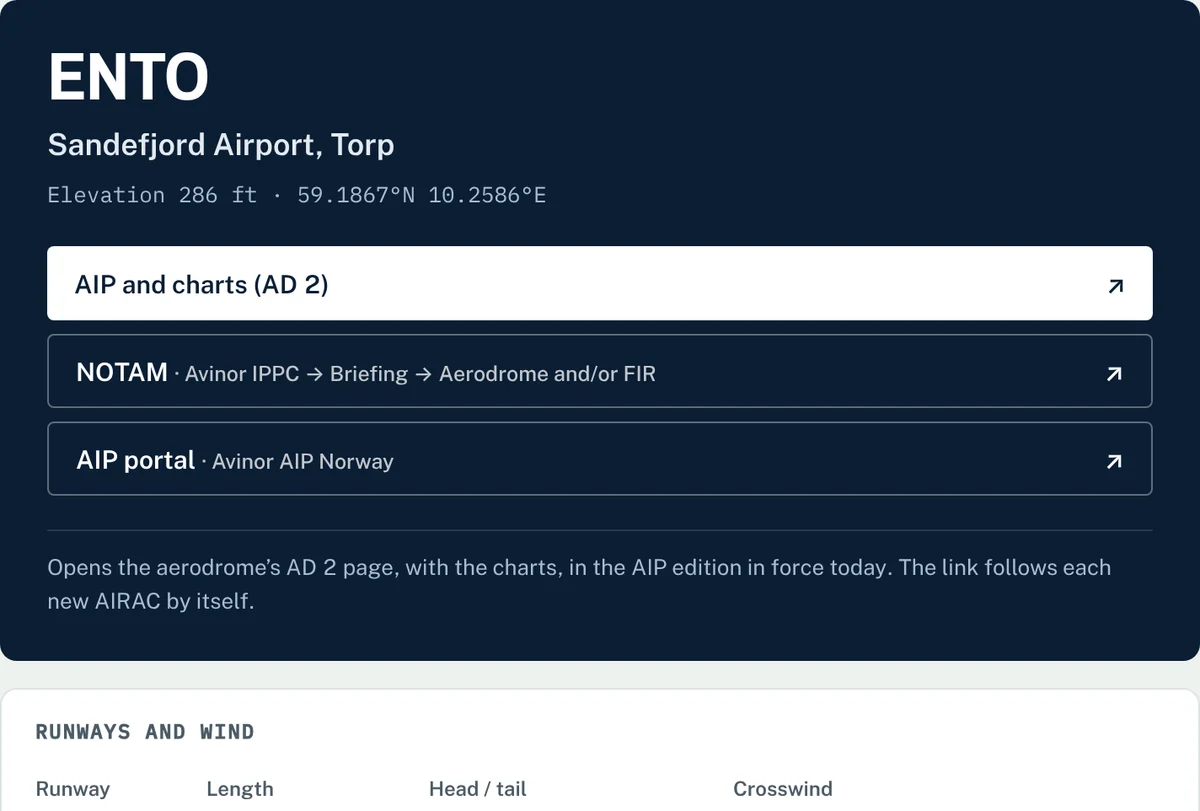
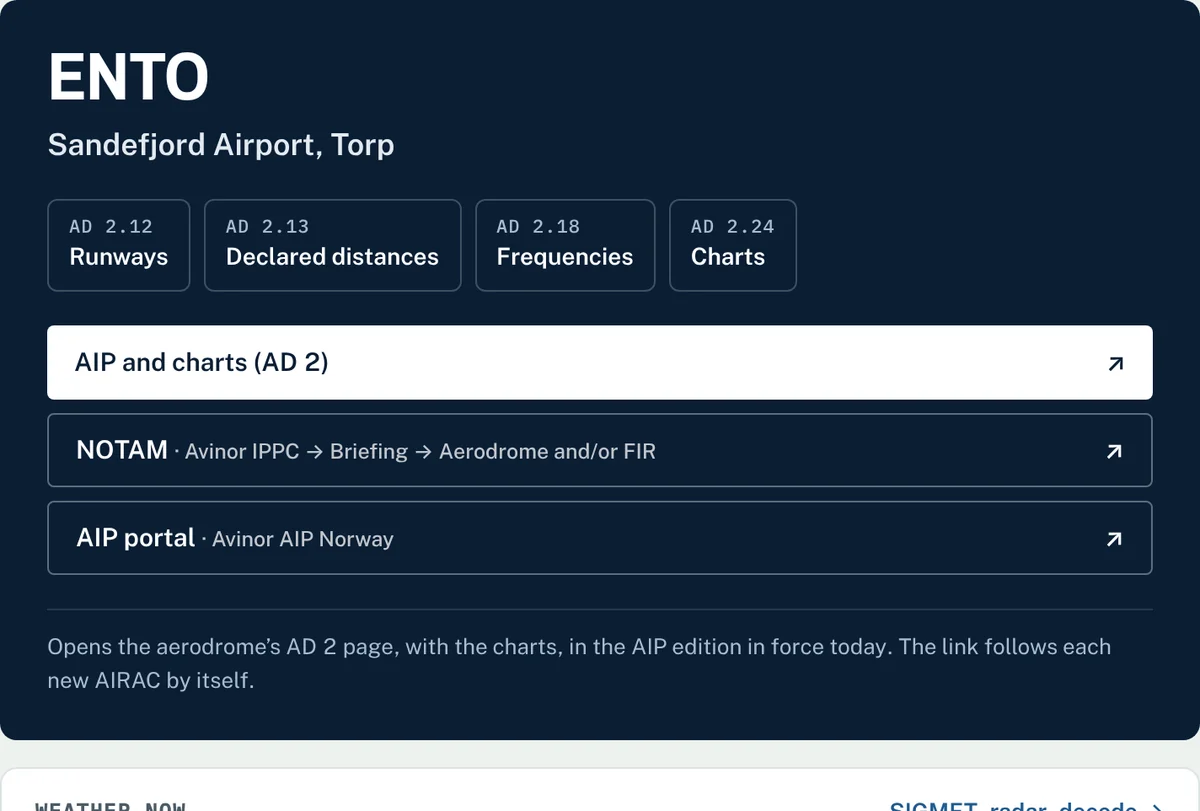
Aerodrome and AIP: straight to the official AIP; no OurAirports runways, frequencies or elevation; Enter opens the AIP; AD 2 section shortcuts
Claude-Session: https://claude.ai/code/session_01S9gHm2brXeiNkAgNyZ96uL

diff --git a/aerodrome.html b/aerodrome.html
@@ -4,12 +4,12 @@
 <meta charset="utf-8">
 <meta name="viewport" content="width=device-width, initial-scale=1, viewport-fit=cover">
 <title>Aerodrome and AIP · NORDAP</title>
-<meta name="description" content="Type an ICAO code and go straight to the aerodrome's AIP and charts (AD 2) in the edition in force today, with NOTAM, runways and wind, frequencies, the current weather and daylight.">
+<meta name="description" content="Type an ICAO code and go straight to the aerodrome's official AIP and charts (AD 2) in the edition in force today, with NOTAM, the current weather and daylight.">
 <link rel="canonical" href="https://nordap.eu/aerodrome">
 <meta property="og:type" content="website">
 <meta property="og:site_name" content="NORDAP">
 <meta property="og:title" content="Aerodrome and AIP · NORDAP">
-<meta property="og:description" content="Type an ICAO code and go straight to the aerodrome's AIP and charts (AD 2) in the edition in force today, with NOTAM, runways and wind, frequencies, the current weather and daylight.">
+<meta property="og:description" content="Type an ICAO code and go straight to the aerodrome's official AIP and charts (AD 2) in the edition in force today, with NOTAM, the current weather and daylight.">
 <meta property="og:url" content="https://nordap.eu/aerodrome">
 <meta property="og:image" content="https://nordap.eu/img/og-nordap.jpg">
 <meta property="og:image:width" content="1200">
@@ -28,7 +28,7 @@
 .ad-rec button:hover,.ad-rec button.on{border-color:var(--accent);color:var(--accent)}
 .ad-st{color:var(--ink-2);font-size:14px}
 
-.ad-hero{display:grid;grid-template-columns:minmax(0,1fr) auto;gap:20px 40px;align-items:end;margin-top:22px;padding:26px 28px;border-radius:10px;background:#0B1E34;color:#fff}
+.ad-hero{display:grid;grid-template-columns:minmax(0,1fr) auto;gap:20px 40px;align-items:center;margin-top:22px;padding:26px 28px;border-radius:10px;background:#0B1E34;color:#fff}
 .ad-hero .id{font:700 clamp(40px,5vw,58px)/1 var(--f-display);font-stretch:84%;letter-spacing:-.01em}
 .ad-hero .nm{margin-top:6px;font-size:18px;font-weight:600;color:#E3EAF1}
 .ad-hero .mt{margin-top:6px;font-family:var(--f-mono);font-size:13px;color:#A9BCCE}
@@ -37,6 +37,10 @@
 .ad-go .pri{background:#fff;color:#0B1E34}.ad-go .pri:hover{background:#E6EEF5}
 .ad-go .sec{border:1px solid rgba(255,255,255,.35);color:#fff}.ad-go .sec:hover{background:rgba(255,255,255,.08)}
 .ad-go small{font-weight:500;font-size:12.5px;opacity:.75}
+.ad-sec{display:flex;flex-wrap:wrap;gap:8px;margin-top:18px}
+.ad-sec a{display:flex;flex-direction:column;gap:1px;padding:8px 12px;border:1px solid rgba(255,255,255,.22);border-radius:6px;color:#fff;text-decoration:none;font-size:14px;font-weight:600}
+.ad-sec a:hover{background:rgba(255,255,255,.08);border-color:rgba(255,255,255,.45)}
+.ad-sec small{font:500 11px/1.3 var(--f-mono);letter-spacing:.05em;color:#A9BCCE}
 .ad-hn{grid-column:1/-1;margin:0;font-size:13px;line-height:1.5;color:#A9BCCE;border-top:1px solid rgba(255,255,255,.12);padding-top:12px}
 
 .ad-grid{display:grid;grid-template-columns:repeat(2,minmax(0,1fr));gap:16px;margin-top:16px}
@@ -44,14 +48,6 @@
 .ad-box h2{margin:0 0 12px;font-family:var(--f-mono);font-size:12px;font-weight:600;letter-spacing:.08em;text-transform:uppercase;color:var(--ink-2)}
 .ad-box h2 a{float:right;font-family:var(--f-body,system-ui);text-transform:none;letter-spacing:0;font-size:13.5px;font-weight:600;color:var(--accent);text-decoration:none}
 .ad-box h2 a:hover{text-decoration:underline}
-.ad-t{width:100%;border-collapse:collapse;font-variant-numeric:tabular-nums}
-.ad-t th,.ad-t td{padding:7px 10px 7px 0;border-bottom:1px solid var(--rule-2);text-align:left;font-size:14.5px;vertical-align:baseline}
-.ad-t th{font-size:12px;font-weight:600;color:var(--ink-2);border-bottom:1px solid var(--ink)}
-.ad-t tr:last-child td{border-bottom:0}
-.ad-t .m{font-family:var(--f-mono)}
-.ad-t .best td{background:#F2F7FB}
-.ad-t .best td:first-child b::after{content:'';display:inline-block;width:7px;height:7px;margin-left:7px;border-radius:50%;background:#1e8e3e;vertical-align:2px}
-.ad-x.hi{color:#b35c00;font-weight:600}.ad-tw{color:#d93025;font-weight:600}
 .ad-w{margin:10px 0 0;font-size:13px;color:var(--ink-2);line-height:1.5}
 .ad-raw{display:block;font-family:var(--f-mono);font-size:13px;line-height:1.5;white-space:pre-wrap;word-break:break-word;margin:6px 0 0;color:var(--ink)}
 .ad-raw+.ad-raw{margin-top:10px;padding-top:10px;border-top:1px solid var(--rule-2)}
@@ -76,7 +72,7 @@
     <div class="brand">
       <div class="eyebrow">NORDAP · Preflight</div>
       <h1>Aerodrome and AIP</h1>
-      <p>Type an ICAO code and go straight to the aerodrome's AIP and charts, in the edition in force today. Next to it: NOTAM, the runways with today's wind, frequencies, the weather now and daylight.</p>
+      <p>Type an ICAO code and go straight to the aerodrome's official AIP and charts, in the edition in force today. Press Enter and the AIP opens. Next to it: NOTAM, the weather now and daylight.</p>
     </div>
   </header>
 
@@ -87,55 +83,31 @@
       <span class="ad-st" id="st"></span>
     </div>
     <div id="out"></div>
-    <p class="ad-note">A preparation aid, not a source. The AIP, NOTAM and the official weather briefing are the authority. Runway headings are worked out from the runway numbers and the wind from the METAR, corrected for magnetic variation.</p>
+    <p class="ad-note">Runways, declared distances, frequencies and charts are taken from the AIP itself, never copied into NORDAP. The AIP, NOTAM and the official weather briefing are the authority.</p>
   </section>
 </div>
 <script src="lab.js?v=62"></script>
 <script src="aip.js?v=7"></script>
 <script src="icaobrief.js?v=9"></script>
 <script src="sun.js?v=1"></script>
-<script src="wmm.js?v=2"></script>
 <script>
 (function(){
 'use strict';
 const {L,el}=LAB;
 LAB.add({},{
  'NORDAP · Preflight':'NORDAP · Preflight','Aerodrome and AIP':'Flyplass og AIP','ICAO code':'ICAO-kode',
- "Type an ICAO code and go straight to the aerodrome's AIP and charts, in the edition in force today. Next to it: NOTAM, the runways with today's wind, frequencies, the weather now and daylight.":'Skriv en ICAO-kode og gå rett til flyplassens AIP og kart, i utgaven som gjelder i dag. Ved siden av: NOTAM, rullebanene med dagens vind, frekvenser, været nå og dagslys.',
- 'A preparation aid, not a source. The AIP, NOTAM and the official weather briefing are the authority. Runway headings are worked out from the runway numbers and the wind from the METAR, corrected for magnetic variation.':'Et hjelpemiddel for forberedelse, ikke en kilde. AIP, NOTAM og den offisielle værbriefingen er fasit. Banekursene regnes ut fra banenumrene og vinden fra METAR, korrigert for misvisning.'
+ "Type an ICAO code and go straight to the aerodrome's official AIP and charts, in the edition in force today. Press Enter and the AIP opens. Next to it: NOTAM, the weather now and daylight.":'Skriv en ICAO-kode og gå rett til flyplassens offisielle AIP og kart, i utgaven som gjelder i dag. Trykk Enter, så åpnes AIP. Ved siden av: NOTAM, været nå og dagslys.',
+ 'Runways, declared distances, frequencies and charts are taken from the AIP itself, never copied into NORDAP. The AIP, NOTAM and the official weather briefing are the authority.':'Baner, deklarerte distanser, frekvenser og kart hentes fra AIP selv, aldri kopiert inn i NORDAP. AIP, NOTAM og den offisielle værbriefingen er fasit.'
 });
 const esc=s=>String(s==null?'':s).replace(/[&<>"]/g,c=>({'&':'&amp;','<':'&lt;','>':'&gt;','"':'&quot;'}[c]));
-let AP=null, apP=null; const FQ={}, WX={};
-const loadAp=()=>apP||(apP=fetch('data/nav-eu.json').then(r=>r.json()).then(d=>{ AP={}; (d.ap||[]).forEach(a=>{ AP[a[0]]={n:a[1],lat:a[2],lon:a[3],el:a[4],rw:a[6]||[]}; }); }));
-const loadFq=p=>FQ[p]||(FQ[p]=fetch('data/freq/'+p+'.json').then(r=>r.ok?r.json():{}).catch(()=>({})));
+let AP=null, apP=null; const WX={};
+const loadAp=()=>apP||(apP=fetch('data/nav-eu.json').then(r=>r.json()).then(d=>{ AP={}; (d.ap||[]).forEach(a=>{ AP[a[0]]={n:a[1],lat:a[2],lon:a[3]}; }); }));
 const inp=el('icao');
 const q=new URLSearchParams(location.search);
 let recent=[]; try{ recent=JSON.parse(localStorage.getItem('bb-ad-recent')||'[]').filter(x=>/^[A-Z0-9]{4}$/.test(x)).slice(0,6); }catch(e){}
 let icao=(q.get('icao')||'').toUpperCase(); if(!/^[A-Z0-9]{4}$/.test(icao)) icao=recent[0]||'ENTO';
 inp.value=icao;
 
-/* METAR wind: direction (true), speed and gust in knots */
-function wind(raw){ const m=/ (\d{3}|VRB)(\d{2,3})(?:G(\d{2,3}))?(KT|MPS)(?: (\d{3})V(\d{3}))? /.exec(' '+String(raw||'').toUpperCase()+' '); if(!m) return null;
-  const k=m[4]==='MPS'?1.94384:1; return {dir:m[1]==='VRB'?null:+m[1],spd:Math.round(+m[2]*k),gst:m[3]?Math.round(+m[3]*k):null}; }
-function variation(ap){ try{ return window.WMM?WMM.declination(ap.lat,ap.lon,ap.el||0):0; }catch(e){ return 0; } }
-function rwyRows(ap,w){ const vr=variation(ap); const ends=[]; (ap.rw||[]).forEach(r=>{ [r[0],r[1]].forEach(d=>{ if(!d) return; const n=parseInt(d,10); if(!(n>=1&&n<=36)) return; ends.push({d,hdg:n*10,len:r[2]}); }); });
-  if(!ends.length) return `<p class="ad-mu">${L({en:'No runway data for this aerodrome. See AD 2.12 in the AIP.',no:'Ingen banedata for denne flyplassen. Se AD 2.12 i AIP.'})}</p>`;
-  const calm=w&&(w.spd<=2), wm=w&&w.dir!=null?((w.dir-vr)%360+360)%360:null;
-  let best=null; ends.forEach(e=>{ if(wm==null||calm) return; const a=(wm-e.hdg)*Math.PI/180; e.h=Math.round(w.spd*Math.cos(a)); e.x=Math.round(w.spd*Math.sin(a)); if(w.gst){ e.gx=Math.round(w.gst*Math.abs(Math.sin(a))); } if(!best||e.h>best.h) best=e; });
-  const LR=x=>x>0?L({en:'from right',no:'fra høyre'}):x<0?L({en:'from left',no:'fra venstre'}):'';
-  let h=`<table class="ad-t"><tr><th>${L({en:'Runway',no:'Bane'})}</th><th>${L({en:'Length',no:'Lengde'})}</th><th>${L({en:'Head / tail',no:'Mot / med'})}</th><th>${L({en:'Crosswind',no:'Sidevind'})}</th></tr>`;
-  ends.forEach(e=>{ const m=Math.round(e.len*0.3048);
-    const hw=e.h==null?(calm?L({en:'calm',no:'stille'}):'—'):e.h>=0?e.h+' kt':`<span class="ad-tw">${L({en:'tail',no:'medvind'})} ${-e.h} kt</span>`;
-    const xw=e.x==null?'—':`<span class="ad-x${Math.abs(e.x)>=15?' hi':''}">${Math.abs(e.x)} kt</span> <small class="ad-mu">${LR(e.x)}${e.gx&&e.gx>Math.abs(e.x)?' · '+L({en:'gust ',no:'kast '})+e.gx:''}</small>`;
-    h+=`<tr class="${best===e&&e.h>0?'best':''}"><td class="m"><b>${esc(e.d)}</b></td><td class="m">${e.len?m.toLocaleString('en-GB').replace(/,/g,' ')+' m':'—'}</td><td class="m">${hw}</td><td class="m">${xw}</td></tr>`; });
-  h+='</table>';
-  const ws=w?(w.dir==null?'VRB':String(w.dir).padStart(3,'0')+'°')+' '+w.spd+(w.gst?'G'+w.gst:'')+' kt':null;
-  h+=`<p class="ad-w">${ws?L({en:'Wind in the METAR ',no:'Vind i METAR '})+ws+(w.dir!=null?' ('+L({en:'true; variation ',no:'rettvisende; misvisning '})+Math.abs(vr).toFixed(0)+'°'+(vr>=0?'E':'W')+')':'')+(best&&best.h>0?L({en:'. Green dot: most headwind.',no:'. Grønn prikk: mest motvind.'}):''):L({en:'Wind: no METAR yet.',no:'Vind: ingen METAR ennå.'})} ${L({en:'Lengths are the runway, not TORA or LDA: those are in AD 2.13.',no:'Lengdene er banen, ikke TORA eller LDA: de står i AD 2.13.'})}</p>`;
-  return h; }
-function fqRows(list){ if(!list||!list.length) return `<p class="ad-mu">${L({en:'No frequencies on file. See AD 2.18 in the AIP.',no:'Ingen frekvenser registrert. Se AD 2.18 i AIP.'})}</p>`;
-  const ord=['ATIS','AFIS','TWR','GND','APP','TCA','DEP','CTR','RDO','UNIC','CTAF'];
-  const s=list.slice().sort((a,b)=>{ const i=x=>{ const k=ord.indexOf(x[0]); return k<0?99:k; }; return i(a)-i(b); });
-  return `<table class="ad-t"><tr><th>${L({en:'Unit',no:'Enhet'})}</th><th>MHz</th></tr>${s.map(f=>`<tr><td>${esc(f[1]||f[0])}</td><td class="m"><b>${esc(f[2])}</b></td></tr>`).join('')}</table><p class="ad-w">${L({en:'From OurAirports, which can be out of date. AD 2.18 in the AIP is the authority.',no:'Fra OurAirports, som kan være utdatert. AD 2.18 i AIP er fasit.'})}</p>`; }
 function sunBox(ap){ if(!window.SUN) return '';
   const tz=SUN.tzOf(icao), D=SUN.day(SUN.localDate(new Date(),tz),ap.lat,ap.lon), t=d=>d?SUN.hm(d,tz):'—', u=d=>d?SUN.hm(d,'UTC')+'Z':'';
   const c=(lab,d,cls)=>`<div class="${cls||''}"><span>${lab}</span><b>${t(d)}</b><small>${u(d)}</small></div>`;
@@ -154,31 +126,29 @@ async function wxGet(id){ if(!/^https?:/.test(location.protocol)) { WX[id]={err:
   catch(e){ WX[id]={at:Date.now(),err:1}; }
   if(id===icao) draw(); }
 function recentBar(){ el('rec').innerHTML=recent.filter(x=>x!==icao||recent.length>1).map(x=>`<button type="button" data-i="${x}" class="${x===icao?'on':''}">${x}</button>`).join(''); }
-let fql=null;
 function draw(){ const st=el('st'), out=el('out'); const ap=AP&&AP[icao];
   recentBar();
   if(!AP){ st.textContent=L({en:'Loading aerodromes…',no:'Henter flyplasser …'}); return; }
   if(!ap){ st.textContent=L({en:'Unknown ICAO code: ',no:'Ukjent ICAO-kode: '})+icao; out.innerHTML=''; return; }
   st.textContent='';
   const pt=window.BBAIP&&BBAIP.of(icao), deep=window.BBAIP&&BBAIP.deep(icao), ns=window.ICB?ICB.notam(icao):null;
-  const elev=ap.el!=null?ap.el.toLocaleString('en-GB').replace(/,/g,' ')+' ft':'—';
-  const ll=(v,p,n)=>Math.abs(v).toFixed(4)+'°'+(v>=0?p:n);
-  let h=`<div class="ad-hero"><div><div class="id">${icao}</div><div class="nm">${esc(ap.n)}</div><div class="mt">${L({en:'Elevation ',no:'Høyde '})}${elev} · ${ll(ap.lat,'N','S')} ${ll(ap.lon,'E','W')}</div></div>
-    <div class="ad-go"><a class="pri" href="${BBAIP.ad(icao)}" target="_blank" rel="noopener"><span>${deep?L({en:'AIP and charts (AD 2)',no:'AIP og kart (AD 2)'}):L({en:'AIP',no:'AIP'})}</span><span>↗</span></a>
+  const A=BBAIP.ad(icao);
+  const sec=[['AD 2.12',{en:'Runways',no:'Rullebaner'}],['AD 2.13',{en:'Declared distances',no:'Deklarerte distanser'}],['AD 2.18',{en:'Frequencies',no:'Frekvenser'}],['AD 2.24',{en:'Charts',no:'Kart'}]];
+  let h=`<div class="ad-hero"><div><div class="id">${icao}</div><div class="nm">${esc(ap.n)}</div>${deep?`<div class="ad-sec">${sec.map(([k,t])=>`<a href="${A}" target="_blank" rel="noopener"><small>${k}</small>${L(t)}</a>`).join('')}</div>`:''}</div>
+    <div class="ad-go"><a class="pri" href="${A}" target="_blank" rel="noopener"><span>${deep?L({en:'AIP and charts (AD 2)',no:'AIP og kart (AD 2)'}):L({en:'AIP',no:'AIP'})}</span><span>↗</span></a>
       ${ns?`<a class="sec" href="${ns.url}" target="_blank" rel="noopener"><span>NOTAM <small>· ${esc(ns.name)}${ns.direct?'':L({en:' (type ',no:' (skriv '})+icao+')'}</small></span><span>↗</span></a>`:''}
       ${pt?`<a class="sec" href="${pt.url}" target="_blank" rel="noopener"><span>${L({en:'AIP portal',no:'AIP-portal'})} <small>· ${esc(pt.name)}</small></span><span>↗</span></a>`:''}</div>
     <p class="ad-hn">${deep?L({en:'Opens the aerodrome’s AD 2 page, with the charts, in the AIP edition in force today. The link follows each new AIRAC by itself.',no:'Åpner flyplassens AD 2-side, med kartene, i AIP-utgaven som gjelder i dag. Lenken følger hver nye AIRAC av seg selv.'}):L({en:'This state has no open eAIP page per aerodrome, so the link opens its AIP',no:'Denne staten har ingen åpen eAIP-side per flyplass, så lenken åpner AIP-en'})+(pt&&pt.note?' ('+esc(L(pt.note))+')':'')+'.'}</p></div>`;
-  h+=`<div class="ad-grid"><div class="ad-box"><h2>${L({en:'Runways and wind',no:'Rullebaner og vind'})}</h2>${rwyRows(ap,wind(WX[icao]&&WX[icao].m))}</div>`;
-  h+=`<div class="ad-box"><h2>${L({en:'Frequencies',no:'Frekvenser'})}</h2>${fql===null?`<p class="ad-mu">${L({en:'Loading…',no:'Henter …'})}</p>`:fqRows(fql)}</div>`;
-  h+=wxBox()+sunBox(ap)+'</div>';
+  h+='<div class="ad-grid">'+wxBox()+sunBox(ap)+'</div>';
   out.innerHTML=h;
 }
-function setIcao(v){ v=String(v||'').trim().toUpperCase(); if(!/^[A-Z0-9]{4}$/.test(v)) return; icao=v; inp.value=v; fql=null;
+function setIcao(v){ v=String(v||'').trim().toUpperCase(); if(!/^[A-Z0-9]{4}$/.test(v)) return; icao=v; inp.value=v;
   const p=new URLSearchParams(location.search); p.set('icao',v); history.replaceState(null,'','?'+p.toString());
-  if(AP&&AP[v]){ recent=[v,...recent.filter(x=>x!==v)].slice(0,6); try{ localStorage.setItem('bb-ad-recent',JSON.stringify(recent)); }catch(e){}
-    loadFq(v.slice(0,2)).then(d=>{ if(icao===v){ fql=d&&d[v]||[]; draw(); } }); wxGet(v); }
+  if(AP&&AP[v]){ recent=[v,...recent.filter(x=>x!==v)].slice(0,6); try{ localStorage.setItem('bb-ad-recent',JSON.stringify(recent)); }catch(e){} wxGet(v); }
   draw(); }
 inp.addEventListener('input',()=>{ inp.value=inp.value.replace(/[^a-z0-9]/gi,'').toUpperCase(); if(inp.value.length===4) setIcao(inp.value); });
+/* Enter opens the AIP straight away */
+inp.addEventListener('keydown',e=>{ if(e.key==='Enter'&&/^[A-Z0-9]{4}$/.test(inp.value)&&window.BBAIP){ e.preventDefault(); window.open(BBAIP.ad(inp.value),'_blank','noopener'); } });
 el('rec').addEventListener('click',e=>{ const b=e.target.closest('button[data-i]'); if(b) setIcao(b.dataset.i); });
 LAB.start('aerodrome');
 loadAp().then(()=>setIcao(icao)).catch(()=>{ el('st').textContent=L({en:'Could not load the aerodrome list.',no:'Kunne ikke hente flyplasslisten.'}); });

diff --git a/preflight.html b/preflight.html
@@ -536,7 +536,7 @@
       </div>
       <a class="th-t th-s1" href="weather.html"><img src="img/preflight/wx-640.webp" srcset="img/preflight/wx-640.webp 640w, img/preflight/wx-1200.webp 1200w" sizes="(max-width:1100px) 50vw, 300px" alt="The METAR and TAF for Oslo Gardermoen, with a VFR status badge." data-alt-no="METAR og TAF for Oslo Gardermoen, med et VFR-merke." loading="lazy" decoding="async"><div class="th-tx"><b data-tx="tWx">Weather</b><span data-tx="tWxL">METAR, TAF and forecast.</span></div></a>
       <a class="th-t th-s2" href="prep.html#minima"><img src="img/preflight/minima-640.webp" srcset="img/preflight/minima-640.webp 640w, img/preflight/minima-1200.webp 1200w" sizes="(max-width:1100px) 50vw, 300px" alt="The planning minima page of an IFR briefing pack: destination and alternates checked against the forecast." data-alt-no="Planleggingsminima i en IFR-briefingpakke: destinasjon og alternativer sjekket mot prognosen." loading="lazy" decoding="async"><div class="th-tx"><b data-tx="tMi">Planning minima</b><span data-tx="tMiL">EASA alternates.</span></div></a>
-      <a class="th-t th-s3" href="aerodrome.html"><img src="img/preflight/ad-640.webp" srcset="img/preflight/ad-640.webp 640w, img/preflight/ad-1200.webp 1200w" sizes="(max-width:1100px) 50vw, 300px" alt="Torp (ENTO): the link to the AIP and charts, NOTAM, the runways with the wind, and the frequencies." data-alt-no="Torp (ENTO): lenken til AIP og kart, NOTAM, banene med vinden, og frekvensene." loading="lazy" decoding="async"><div class="th-tx"><b data-tx="tAd">Aerodrome &amp; AIP</b><span data-tx="tAdL">AIP, charts, NOTAM.</span></div></a>
+      <a class="th-t th-s3" href="aerodrome.html"><img src="img/preflight/ad-640.webp" srcset="img/preflight/ad-640.webp 640w, img/preflight/ad-1200.webp 1200w" sizes="(max-width:1100px) 50vw, 300px" alt="Torp (ENTO): the direct link to the AIP and charts, and NOTAM." data-alt-no="Torp (ENTO): direktelenken til AIP og kart, og NOTAM." loading="lazy" decoding="async"><div class="th-tx"><b data-tx="tAd">Aerodrome &amp; AIP</b><span data-tx="tAdL">AIP, charts, NOTAM.</span></div></a>
       <a class="th-t th-s4" href="planning.html"><img src="img/preflight/nav-640.webp" srcset="img/preflight/nav-640.webp 640w, img/preflight/nav-1200.webp 1200w" sizes="(max-width:1100px) 50vw, 300px" alt="The navigation log with four legs and the wind triangle for the first leg." data-alt-no="Navigasjonsloggen med fire etapper og vindtrekanten for den første." loading="lazy" decoding="async"><div class="th-tx"><b data-tx="tNl">Navigation log</b><span data-tx="tNlL">Headings, times, fuel.</span></div></a>
       <aside class="th-rail" aria-label="Your preparation" data-aria-no="Din forberedelse">
         <section class="th-cont"><h2 data-tx="cC">Continue</h2><div id="pfCont"><a href="prep.html"><img src="img/preflight/pack-thumb.webp" alt=""><div><b data-tx="cN">Briefing pack</b><span data-tx="cS">New here? Start a pack for your next flight.</span></div><em data-tx="cGo">Start →</em></a></div></section>
@@ -643,7 +643,7 @@
     </div>
     <ul class="tv-more-l">
       <li><a href="weather.html"><span class="t"><b data-tx="t1">Weather</b></span><span class="d" data-tx="t1d">METAR, TAF and SIGMET now, the forecast up to 14 days, and every report decoded line by line.</span><span class="ar" aria-hidden="true">→</span></a></li>
-      <li><a href="aerodrome.html"><span class="t"><b data-tx="t3">Aerodrome and AIP</b></span><span class="d" data-tx="t3d">Type an ICAO code: the AIP and charts in force today, NOTAM, runways with the wind, frequencies and daylight.</span><span class="ar" aria-hidden="true">→</span></a></li>
+      <li><a href="aerodrome.html"><span class="t"><b data-tx="t3">Aerodrome and AIP</b></span><span class="d" data-tx="t3d">Type an ICAO code and go straight to the official AIP and charts in force today, with NOTAM, the weather and daylight.</span><span class="ar" aria-hidden="true">→</span></a></li>
       <li><a href="planning.html"><span class="t"><b data-tx="t2">Navigation log</b></span><span class="d" data-tx="t2d">The wind triangle per leg, fuel, and the ICAO flight plan format.</span><span class="ar" aria-hidden="true">→</span></a></li>
       <li><a href="sheets.html"><span class="t"><b data-tx="t4">Kneeboard sheets</b></span><span class="d" data-tx="t4d">Blank A5 sheets: the VFR operational flight plan, the IFR kneeboard and a risk assessment.</span><span class="ar" aria-hidden="true">→</span></a></li>
       <li><a href="essentials.html"><span class="t"><b data-tx="t5">VFR and IFR essentials</b></span><span class="d" data-tx="t5d">The rules and numbers you look up most, on one page.</span><span class="ar" aria-hidden="true">→</span></a></li>
@@ -690,7 +690,7 @@ LAB.tx({
  tH:'Verktøy for dagen', tP:'Sidene du åpner ved siden av pakken.',
  t1:'Vær', t1d:'METAR, TAF og SIGMET nå, varselet opptil 14 dager frem, og hver melding dekodet linje for linje.',
  t2:'Navigasjonslogg', t2d:'Vindtrekanten per etappe, drivstoff og ICAO-formatet for flygeplanen.',
- t3:'Flyplass og AIP', t3d:'Skriv en ICAO-kode: AIP og kart som gjelder i dag, NOTAM, baner med vinden, frekvenser og dagslys.',
+ t3:'Flyplass og AIP', t3d:'Skriv en ICAO-kode og gå rett til offisiell AIP og kart som gjelder i dag, med NOTAM, været og dagslys.',
  t4:'Kneeboard-ark', t4d:'Tomme A5-ark: VFR operativ flygeplan, IFR-kneeboardet og en risikovurdering.',
  t5:'Det viktigste i VFR og IFR', t5d:'Reglene og tallene du slår opp oftest, på én side.',
  note:'Et hjelpemiddel for forberedelse, ikke en kilde. Sjekk hvert tall mot AIP, flyhåndboken, offisielt vær og NOTAM, og operatørens prosedyrer.', noteGo:'Datakilder og lisenser'

diff --git a/search.js b/search.js
@@ -27,7 +27,7 @@ const IDX=[
  P('propeller.html#lt','Critical engine on a light twin','Kritisk motor på lett tomotors','critical engine kritisk motor p-factor p-faktor past vmca light twin lett tomotors','Engine failure and minimum control speeds','Motorstans og minste kontrollfarter'),
  P('propeller.html#pwing','Propeller as a wing','Propellen som vinge','propeller blade angle bladvinkel constant speed konstant turtall feather fløying fjæring windmilling vindmølling','Engine failure and minimum control speeds','Motorstans og minste kontrollfarter'),
 P('outlook.html','Weather forecast','Værvarsel','forecast prognose outlook værutsikter weather vær været cloud base skybase ceiling skydekke tops topper freezing level frysenivå icing ising tomorrow i morgen monday mandag models modeller ecmwf icon harmonie gfs met norway','Cloud base, ceiling, wind and icing up to 14 days ahead','Skybase, ceiling, vind og ising opptil 14 dager fram'),
-P('aerodrome.html','Aerodrome and AIP','Flyplass og AIP','aerodrome flyplass airport lufthavn aip ad 2 ad2 charts kart innflygingskart approach chart notam runway rullebane bane frequency frekvens atis twr crosswind sidevind eaip airac','AIP and charts by ICAO code, with NOTAM, runways and wind','AIP og kart på ICAO-kode, med NOTAM, baner og vind'),
+P('aerodrome.html','Aerodrome and AIP','Flyplass og AIP','aerodrome flyplass airport lufthavn aip ad 2 ad2 charts kart innflygingskart approach chart notam runway rullebane bane frequency frekvens atis twr crosswind sidevind eaip airac','Straight to the AIP and charts by ICAO code, with NOTAM','Rett til AIP og kart på ICAO-kode, med NOTAM'),
 P('sun.html','Sun and twilight','Sol og tussmørke','sunrise sunset soloppgang solnedgang civil twilight sivilt tussmørke nautical astronomical night natt easa daylight dagslys mørketid midnattssol polar night midnight sun','Flight planning','Flyplanlegging'),
 P('forces.html','Forces in flight','Krefter i flyging','four forces fire krefter lift weight thrust drag løft vekt skyvekraft motstand climb stigning glide glid turn sving load factor lastfaktor vx vy rate one','Aerodynamics','Aerodynamikk'),
 P('propeller.html#a320','Failure after V1','Motorstans etter V1','failure after v1 motorstans etter v1','Engine failure and minimum control speeds','Motorstans og minste kontrollfarter'),

diff --git a/site.js b/site.js
@@ -251,7 +251,7 @@
     const fl=()=>document.querySelectorAll('a[data-flowlink]').forEach(a=>{ a.href='flows.html#ac='+a.dataset.flowlink; a.innerHTML=lang()==='no'?'<b>Flow-trener</b> · tegn flowene for denne cockpiten, se dem spilt av og øv fra hukommelsen, alene eller med en partner →':'<b>Flow trainer</b> · draw the flows for this cockpit, watch them play and practise from memory, alone or with a partner →'; });
     if(document.readyState==='loading') document.addEventListener('DOMContentLoaded',fl); else fl(); new MutationObserver(fl).observe(HTML,{attributes:true,attributeFilter:['lang']});
     /* search.js wires the bar. It is not needed to draw the page, so it is fetched after the page's own scripts (it used to share the line with them) */
-    later(()=>{ if(!document.querySelector('script[src^="search.js"]')){ const sj=document.createElement('script'); sj.src='search.js?v=78'; sj.onload=()=>{ const i=document.querySelector('.nsearch input'); if(i&&i.value) i.dispatchEvent(new Event('input')); }; document.head.appendChild(sj); } });
+    later(()=>{ if(!document.querySelector('script[src^="search.js"]')){ const sj=document.createElement('script'); sj.src='search.js?v=79'; sj.onload=()=>{ const i=document.querySelector('.nsearch input'); if(i&&i.value) i.dispatchEvent(new Event('input')); }; document.head.appendChild(sj); } });
     const addFoot=()=>document.body.appendChild(foot); if(document.readyState==='loading') document.addEventListener('DOMContentLoaded',addFoot); else addFoot();
     const tipNow=()=>tip(); if(document.readyState==='loading') document.addEventListener('DOMContentLoaded',tipNow); else tipNow();
     later(trainNote);
